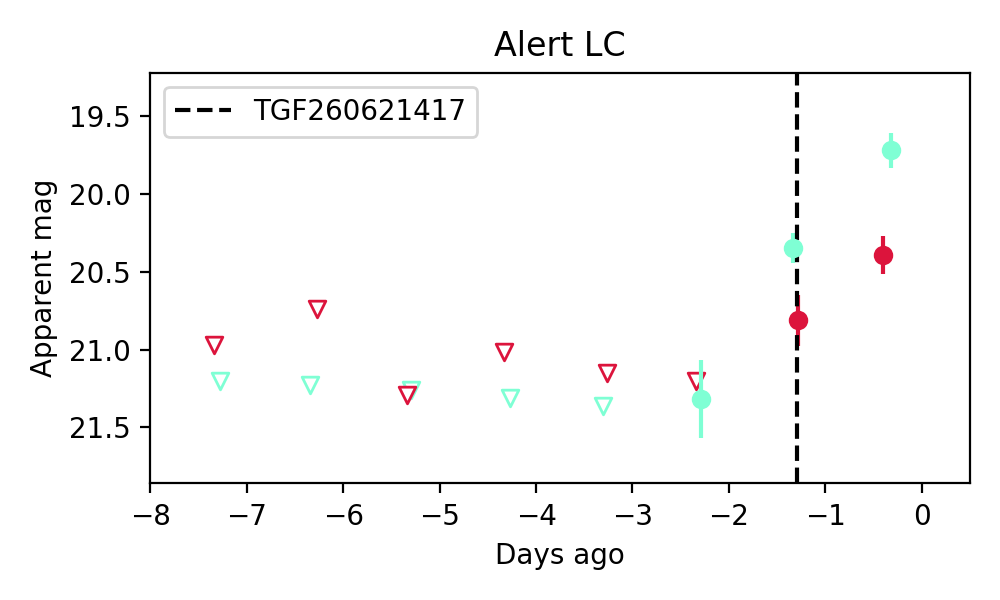
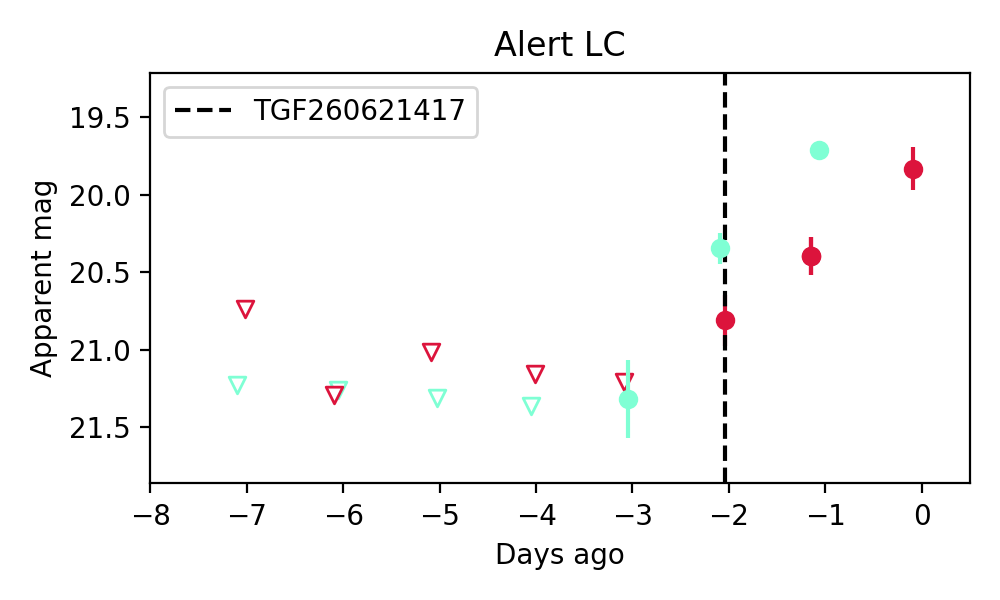
Update HTML from cron job on Tue Jun 23 07:43:20 AM EDT 2026

diff --git a/html/20260623_fastcand.html b/html/20260623_fastcand.html
@@ -1,1 +1,5 @@
-<!doctype html><html><head><title>SOURCE MARSHAL</title><style>                  * {                     box-sizing: border-box;                  }                /* Create two equal columns that floats next to each other */                .column {                         float: left;                         width: 50%;                         padding: 10px;                         #height: 220px; /* Should be removed. Only for demonstration */                }                /* Clear floats after the columns */                .row:after {                        content: "";                        display: table;                        clear: both;                }                /* Rounded corner definition */                #rcorners2 {                    border-radius: 15px;                    border: 2px solid #73AD21;                    padding: 15px;                     width: 80%;                }                table, th, td {                    border: 1px solid black;                    border-collapse: collapse;                }                th, td {                    padding: 5px;                }                th {                    text-align: right;                }                .boxed {                    width: 300px;                    border: 3px outset green;                    text-align: center;                    font-size: 20px;                    margin: 10px;                }                 </style></head><body><font size="5" color="green">Candidate List 20260623</font></br></br><a href=20260622_fastcand.html target="_blank"><font size="3" color="green">Previous Day</font></a>&nbsp;&nbsp;&nbsp;&nbsp;<a href=20260624_fastcand.html target="_blank"><font size="3" color="green">Next Day</font></a>&nbsp;&nbsp;&nbsp;&nbsp;<br><br><font size="4" color="green"><a href="#sec1">Section 1: New Sources (age<1d)</a></font>&nbsp;&nbsp;&nbsp;&nbsp;<button onclick="myfunc1()">Cosmological Afterglow</button><p id="demo1"></p><script>function myfunc1() {document.getElementById("demo1").innerHTML = "Sources detected for the first time last night. Matches with Fermi GRBs are shown in a green box."}</script><font size="4" color="green"><a href="#sec2">Section 2: Old (1-5d) sources observed last night</a></font></br><font size="1" color="white">placeholder</font></br><hr style="width:50%;text-align:left;margin-left:0"><br>
+<!doctype html><html><head><title>SOURCE MARSHAL</title><style>                  * {                     box-sizing: border-box;                  }                /* Create two equal columns that floats next to each other */                .column {                         float: left;                         width: 50%;                         padding: 10px;                         #height: 220px; /* Should be removed. Only for demonstration */                }                /* Clear floats after the columns */                .row:after {                        content: "";                        display: table;                        clear: both;                }                /* Rounded corner definition */                #rcorners2 {                    border-radius: 15px;                    border: 2px solid #73AD21;                    padding: 15px;                     width: 80%;                }                table, th, td {                    border: 1px solid black;                    border-collapse: collapse;                }                th, td {                    padding: 5px;                }                th {                    text-align: right;                }                .boxed {                    width: 300px;                    border: 3px outset green;                    text-align: center;                    font-size: 20px;                    margin: 10px;                }                 </style></head><body><font size="5" color="green">Candidate List 20260623</font></br></br><a href=20260622_fastcand.html target="_blank"><font size="3" color="green">Previous Day</font></a>&nbsp;&nbsp;&nbsp;&nbsp;<a href=20260624_fastcand.html target="_blank"><font size="3" color="green">Next Day</font></a>&nbsp;&nbsp;&nbsp;&nbsp;<br><br><font size="4" color="green"><a href="#sec1">Section 1: New Sources (age<1d)</a></font>&nbsp;&nbsp;&nbsp;&nbsp;<button onclick="myfunc1()">Cosmological Afterglow</button><p id="demo1"></p><script>function myfunc1() {document.getElementById("demo1").innerHTML = "Sources detected for the first time last night. Matches with Fermi GRBs are shown in a green box."}</script><font size="4" color="green"><a href="#sec2">Section 2: Old (1-5d) sources observed last night</a></font></br><font size="1" color="white">placeholder</font></br><hr style="width:50%;text-align:left;margin-left:0"><br><div id="sec1"></div><div class="boxed">Section 1: New Afterglow/FBOT Cands Last Night (0)</div><br><br><br><div id="sec2"></div><div class="boxed">Section 2: Older Sources Observed Last Night (14)</div><div id="ZTF26abcfgmk"></div>0. <a href="#ZTF26abcfgmk"><b><font size="3">ZTF26abcfgmk (FBOT?)</font></b></a>&nbsp;&nbsp;&nbsp;&nbsp;<a href=#top>[Back to Top]</a>&nbsp;&nbsp;&nbsp;&nbsp;<a href=./html/ZTF26abcfgmk_announcement.txt>[Share]</a>&nbsp;&nbsp;&nbsp;&nbsp;<a href=./html/ZTF26abcfgmk_swifttoo.txt>[Trigger Swift]</a></br>&nbsp;&nbsp;&nbsp;&nbsp;[<a href="https://fritz.science/alerts/ztf/ZTF26abcfgmk" target="_blank">Fritz</a>]&nbsp;&nbsp;&nbsp;&nbsp;[<a href="https://lasair.roe.ac.uk/object/ZTF26abcfgmk" target="_blank">Lasair</a>]</br>RA, Dec: 253.33987, 0.44626&nbsp;&nbsp;&nbsp;&nbsp;16h53m21.57s,  0d26m46.55s</br>Galactic (l, b): 18.88365, 26.23503&nbsp;&nbsp;&nbsp;&nbsp;ext(g-r) = 0.186</br></br><img src="./ZTF26abcfgmk_triplet.png" height="200"><a href = http://ps1images.stsci.edu/cgi-bin/ps1cutouts?pos=253.339873[phone redacted]&filter=color&filter=g&filter=r&filter=i&filter=z&filter=y&filetypes=stack&auxiliary=data&size=240&output_size=240&verbose=0&autoscale=99.500000><img src="./ZTF26abcfgmk_ps1.png" height="200"></a><br><br>TESS: Sectors 117<br><br><br><br><br>PS1: 0 sources in 3 arcsec</br><br><b>LegacySurvey: 1 sources in 3 arcsec</b>&nbsp;&nbsp;&nbsp;&nbsp;Closest: d = 3.95 arcsec, 351.1 deg (east of north)</br>&nbsp;&nbsp;&nbsp;&nbsp;photoz=0.17 (68&#37; bounds 0.07, 0.66),                         type=PSF&nbsp;&nbsp;&nbsp;&nbsp;<b>peak abs mag = -22.96 (68&#37; bounds -20.77, -26.42)</b><br><img src="ZTF26abcfgmk_alert_lc.png" height="300"><br>Extinction-corrected gr color:<br>From alerts: 0.89 +/- 99 mag<br>Extinction-corrected gi color:<br>From alerts: -3.64 +/- 99 mag<br>Extinction-corrected ri color:<br>From alerts: -0.82 +/- 99 mag<br><br>Rise Rate:<br>g: 1.3 mag/day <br>r: 1.36 mag/day <br>i: -99 mag/day <br><br>Fade Rate:<br>g: 3.92 mag/day <br>r: -99 mag/day <br>i: -99 mag/day <br><br><br><div id="ZTF26abcfkoh"></div>1. <a href="#ZTF26abcfkoh"><b><font size="3">ZTF26abcfkoh (Afterglow?)</font></b></a>&nbsp;&nbsp;&nbsp;&nbsp;<a href=#top>[Back to Top]</a>&nbsp;&nbsp;&nbsp;&nbsp;<a href=./html/ZTF26abcfkoh_announcement.txt>[Share]</a>&nbsp;&nbsp;&nbsp;&nbsp;<a href=./html/ZTF26abcfkoh_swifttoo.txt>[Trigger Swift]</a></br>&nbsp;&nbsp;&nbsp;&nbsp;[<a href="https://fritz.science/alerts/ztf/ZTF26abcfkoh" target="_blank">Fritz</a>]&nbsp;&nbsp;&nbsp;&nbsp;[<a href="https://lasair.roe.ac.uk/object/ZTF26abcfkoh" target="_blank">Lasair</a>]</br>RA, Dec: 272.55208, -18.37364&nbsp;&nbsp;&nbsp;&nbsp;18h10m12.50s, -18d-22m-25.11s</br>Galactic (l, b): 11.95606, 0.42371&nbsp;&nbsp;&nbsp;&nbsp;ext(g-r) = 8.03</br></br><img src="./ZTF26abcfkoh_triplet.png" height="200"><a href = http://ps1images.stsci.edu/cgi-bin/ps1cutouts?pos=272.552076-18.373642&filter=color&filter=g&filter=r&filter=i&filter=z&filter=y&filetypes=stack&auxiliary=data&size=240&output_size=240&verbose=0&autoscale=99.500000><img src="./ZTF26abcfkoh_ps1.png" height="200"></a><br><br>TESS: Sectors [ 91  92 116]<br><br><br><br><br><b>PS1: 1 source in 3 arcsec</b>&nbsp;&nbsp;&nbsp;&nbsp;Closest: d = 0.17 arcsec&nbsp;&nbsp;&nbsp;&nbsp;photoz=0.72+/-0.05&nbsp;&nbsp;&nbsp;&nbsp;<b>peak abs mag = -37.35</b><br>LegacySurvey: 0 sources in 3 arcsec</br><br><img src="ZTF26abcfkoh_alert_lc.png" height="300"><br>Extinction-corrected gi color:<br>From alerts: -11.41 +/- 99 mag<br>Extinction-corrected ri color:<br>From alerts: -3.06 +/- 99 mag<br><br>Rise Rate:<br>g: -99 mag/day <br>r: -99 mag/day <br>i: 0.51 mag/day <br><br>Fade Rate:<br>g: -99 mag/day <br>r: -99 mag/day <br>i: 0.59 mag/day <br><br><br><div id="ZTF26abcjhzj"></div>2. <a href="#ZTF26abcqesk"><b><font size="3">ZTF26abcqesk (FBOT?)</font></b></a>&nbsp;&nbsp;&nbsp;&nbsp;<a href=#top>[Back to Top]</a>&nbsp;&nbsp;&nbsp;&nbsp;<a href=./html/ZTF26abcqesk_announcement.txt>[Share]</a>&nbsp;&nbsp;&nbsp;&nbsp;<a href=./html/ZTF26abcqesk_swifttoo.txt>[Trigger Swift]</a></br>&nbsp;&nbsp;&nbsp;&nbsp;[<a href="https://fritz.science/alerts/ztf/ZTF26abcqesk" target="_blank">Fritz</a>]&nbsp;&nbsp;&nbsp;&nbsp;[<a href="https://lasair.roe.ac.uk/object/ZTF26abcqesk" target="_blank">Lasair</a>]</br>RA, Dec: 252.31072, 55.09314&nbsp;&nbsp;&nbsp;&nbsp;16h49m14.57s, 55d 5m35.30s</br>Galactic (l, b): 83.40401, 39.25719&nbsp;&nbsp;&nbsp;&nbsp;ext(g-r) = 0.015</br></br><img src="./ZTF26abcqesk_triplet.png" height="200"><a href = http://ps1images.stsci.edu/cgi-bin/ps1cutouts?pos=252.310722[phone redacted]&filter=color&filter=g&filter=r&filter=i&filter=z&filter=y&filetypes=stack&auxiliary=data&size=240&output_size=240&verbose=0&autoscale=99.500000><img src="./ZTF26abcqesk_ps1.png" height="200"></a><a href = http://legacysurvey.org/viewer?ra=252.310722&dec=[phone redacted]&zoom=16&layer=ls-dr10><img src="ZTF26abcqesk_ls.png" height="200"></a></br><br><br>TESS: Sectors [ 16  19  23  24  25  26  49  50  52  53  56  57  59  73  76  77  79  80
+  83  84  86 117 118]<br><br><br><br><br>PS1: 0 sources in 3 arcsec</br><br><b>LegacySurvey: 1 sources in 3 arcsec</b>&nbsp;&nbsp;&nbsp;&nbsp;Closest: d = 0.65 arcsec, 170.1 deg (east of north)</br>&nbsp;&nbsp;&nbsp;&nbsp;photoz=0.37 (68&#37; bounds 0.25, 0.54),                         type=REX&nbsp;&nbsp;&nbsp;&nbsp;<b>peak abs mag = -23.39 (68&#37; bounds -22.37, -24.35)</b><br><img src="ZTF26abcqesk_alert_lc.png" height="300"><br>Extinction-corrected gr color:<br>From alerts: 0.01 +/- 0.07 mag<br><b> Consistent with synchrotron, g-r>0!</b><br>Rise Rate:<br>g: 0.48 mag/day <br>r: 0.47 mag/day <br>i: -99 mag/day <br><br>Fade Rate:<br>g: -99 mag/day <br>r: -99 mag/day <br>i: -99 mag/day <br><br><br><div id="ZTF26abcjpgt"></div>3. <a href="#ZTF26abcqplv"><b><font size="3">ZTF26abcqplv (Afterglow?)</font></b></a>&nbsp;&nbsp;&nbsp;&nbsp;<a href=#top>[Back to Top]</a>&nbsp;&nbsp;&nbsp;&nbsp;<a href=./html/ZTF26abcqplv_announcement.txt>[Share]</a>&nbsp;&nbsp;&nbsp;&nbsp;<a href=./html/ZTF26abcqplv_swifttoo.txt>[Trigger Swift]</a></br>&nbsp;&nbsp;&nbsp;&nbsp;[<a href="https://fritz.science/alerts/ztf/ZTF26abcqplv" target="_blank">Fritz</a>]&nbsp;&nbsp;&nbsp;&nbsp;[<a href="https://lasair.roe.ac.uk/object/ZTF26abcqplv" target="_blank">Lasair</a>]</br>RA, Dec: 239.60315, 27.22953&nbsp;&nbsp;&nbsp;&nbsp;15h58m24.76s, 27d13m46.31s</br>Galactic (l, b): 44.23003, 48.67087&nbsp;&nbsp;&nbsp;&nbsp;ext(g-r) = 0.048</br></br><img src="./ZTF26abcqplv_triplet.png" height="200"><a href = http://ps1images.stsci.edu/cgi-bin/ps1cutouts?pos=239.603149[phone redacted]&filter=color&filter=g&filter=r&filter=i&filter=z&filter=y&filetypes=stack&auxiliary=data&size=240&output_size=240&verbose=0&autoscale=99.500000><img src="./ZTF26abcqplv_ps1.png" height="200"></a><br><br>TESS: Sectors [ 24  25  51  78 117]<br><br>NED (10 arcsec):Found NED spec-z: z=0.09; <b>peak abs mag = -18.99</b><br><br><br>PS1: 0 sources in 3 arcsec</br><br>LegacySurvey: 0 sources in 3 arcsec</br><br><img src="ZTF26abcqplv_alert_lc.png" height="300"><br>Extinction-corrected gr color:<br>From alerts: 0.06 +/- 0.18 mag<br><b> Consistent with synchrotron, g-r>0!</b><br>Rise Rate:<br>g: 0.17 mag/day <br>r: 0.52 mag/day <br>i: -99 mag/day <br><br>Fade Rate:<br>g: -99 mag/day <br>r: -99 mag/day <br>i: -99 mag/day <br><br><br><div id="ZTF26abcmahs"></div>4. <a href="#ZTF26abcuvko"><b><font size="3">ZTF26abcuvko (Afterglow?)</font></b></a>&nbsp;&nbsp;&nbsp;&nbsp;<a href=#top>[Back to Top]</a>&nbsp;&nbsp;&nbsp;&nbsp;<a href=./html/ZTF26abcuvko_announcement.txt>[Share]</a>&nbsp;&nbsp;&nbsp;&nbsp;<a href=./html/ZTF26abcuvko_swifttoo.txt>[Trigger Swift]</a></br>&nbsp;&nbsp;&nbsp;&nbsp;[<a href="https://fritz.science/alerts/ztf/ZTF26abcuvko" target="_blank">Fritz</a>]&nbsp;&nbsp;&nbsp;&nbsp;[<a href="https://lasair.roe.ac.uk/object/ZTF26abcuvko" target="_blank">Lasair</a>]</br>RA, Dec: 230.44214, -12.41028&nbsp;&nbsp;&nbsp;&nbsp;15h21m46.11s, -12d-24m-37.01s</br>Galactic (l, b): 350.51762, 36.21499&nbsp;&nbsp;&nbsp;&nbsp;ext(g-r) = 0.174</br></br><img src="./ZTF26abcuvko_triplet.png" height="200"><a href = http://ps1images.stsci.edu/cgi-bin/ps1cutouts?pos=230.442138-12.410281&filter=color&filter=g&filter=r&filter=i&filter=z&filter=y&filetypes=stack&auxiliary=data&size=240&output_size=240&verbose=0&autoscale=99.500000><img src="./ZTF26abcuvko_ps1.png" height="200"></a><br><br>TESS: Sectors [ 91 115]<br><br><br><br><br>PS1: 0 sources in 3 arcsec</br><br>LegacySurvey: 0 sources in 3 arcsec</br><br><img src="ZTF26abcuvko_alert_lc.png" height="300"><br>Extinction-corrected gr color:<br>From alerts: 2.65 +/- 99 mag<br>Extinction-corrected ri color:<br>From alerts: -2.4 +/- 99 mag<br><br>Rise Rate:<br>g: -99 mag/day <br>r: 2.83 mag/day <br>i: -99 mag/day <br><br>Fade Rate:<br>g: -99 mag/day <br>r: 2.67 mag/day <br>i: -99 mag/day <br><br><br><div id="ZTF26abcntyi"></div>5. <a href="#ZTF26abdbeqv"><b><font size="3">ZTF26abdbeqv (FBOT?)</font></b></a>&nbsp;&nbsp;&nbsp;&nbsp;<a href=#top>[Back to Top]</a>&nbsp;&nbsp;&nbsp;&nbsp;<a href=./html/ZTF26abdbeqv_announcement.txt>[Share]</a>&nbsp;&nbsp;&nbsp;&nbsp;<a href=./html/ZTF26abdbeqv_swifttoo.txt>[Trigger Swift]</a></br>&nbsp;&nbsp;&nbsp;&nbsp;[<a href="https://fritz.science/alerts/ztf/ZTF26abdbeqv" target="_blank">Fritz</a>]&nbsp;&nbsp;&nbsp;&nbsp;[<a href="https://lasair.roe.ac.uk/object/ZTF26abdbeqv" target="_blank">Lasair</a>]</br>RA, Dec: 281.32661, 49.88352&nbsp;&nbsp;&nbsp;&nbsp;18h45m18.39s, 49d53m0.66s</br>Galactic (l, b): 79.17755, 21.34898&nbsp;&nbsp;&nbsp;&nbsp;ext(g-r) = 0.051</br></br><img src="./ZTF26abdbeqv_triplet.png" height="200"><a href = http://ps1images.stsci.edu/cgi-bin/ps1cutouts?pos=281.326610[phone redacted]&filter=color&filter=g&filter=r&filter=i&filter=z&filter=y&filetypes=stack&auxiliary=data&size=240&output_size=240&verbose=0&autoscale=99.500000><img src="./ZTF26abdbeqv_ps1.png" height="200"></a><a href = http://legacysurvey.org/viewer?ra=281.326610&dec=[phone redacted]&zoom=16&layer=ls-dr10><img src="ZTF26abdbeqv_ls.png" height="200"></a></br><br><br>TESS: Sectors [ 15  26  40  41  53  54  55  74  75  79  80  81  82  86 118 119 120]<br><br><br><br><br>PS1: 0 sources in 3 arcsec</br><br><b>LegacySurvey: 1 sources in 3 arcsec</b>&nbsp;&nbsp;&nbsp;&nbsp;Closest: d = 0.77 arcsec, 178.7 deg (east of north)</br>&nbsp;&nbsp;&nbsp;&nbsp;photoz=0.71 (68&#37; bounds 0.25, 1.04),                         type=REX&nbsp;&nbsp;&nbsp;&nbsp;<b>peak abs mag = -23.53 (68&#37; bounds -20.81, -24.55)</b><br><img src="ZTF26abdbeqv_alert_lc.png" height="300"><br>Extinction-corrected gr color:<br>From alerts: -0.73 +/- 0.1 mag<br><br>Rise Rate:<br>g: 0.7 mag/day <br>r: 0.51 mag/day <br>i: -99 mag/day <br><br>Fade Rate:<br>g: -99 mag/day <br>r: -99 mag/day <br>i: -99 mag/day <br><br><br><div id="ZTF26abcqcat"></div>6. <a href="#ZTF26abdgdtq"><b><font size="3">ZTF26abdgdtq (Afterglow?FBOT?)</font></b></a>&nbsp;&nbsp;&nbsp;&nbsp;<a href=#top>[Back to Top]</a>&nbsp;&nbsp;&nbsp;&nbsp;<a href=./html/ZTF26abdgdtq_announcement.txt>[Share]</a>&nbsp;&nbsp;&nbsp;&nbsp;<a href=./html/ZTF26abdgdtq_swifttoo.txt>[Trigger Swift]</a></br>&nbsp;&nbsp;&nbsp;&nbsp;[<a href="https://fritz.science/alerts/ztf/ZTF26abdgdtq" target="_blank">Fritz</a>]&nbsp;&nbsp;&nbsp;&nbsp;[<a href="https://lasair.roe.ac.uk/object/ZTF26abdgdtq" target="_blank">Lasair</a>]</br>RA, Dec: 269.13505, 41.68856&nbsp;&nbsp;&nbsp;&nbsp;17h56m32.41s, 41d41m18.83s</br>Galactic (l, b): 68.09912, 27.44831&nbsp;&nbsp;&nbsp;&nbsp;ext(g-r) = 0.035</br></br><img src="./ZTF26abdgdtq_triplet.png" height="200"><a href = http://ps1images.stsci.edu/cgi-bin/ps1cutouts?pos=269.135054[phone redacted]&filter=color&filter=g&filter=r&filter=i&filter=z&filter=y&filetypes=stack&auxiliary=data&size=240&output_size=240&verbose=0&autoscale=99.500000><img src="./ZTF26abdgdtq_ps1.png" height="200"></a><a href = http://legacysurvey.org/viewer?ra=269.135054&dec=[phone redacted]&zoom=16&layer=ls-dr10><img src="ZTF26abdgdtq_ls.png" height="200"></a></br><br><br>TESS: Sectors [ 25  26  40  52  53  74  79  80 117 119]<br><br><br><br><br>PS1: 0 sources in 3 arcsec</br><br><b>LegacySurvey: 1 sources in 3 arcsec</b>&nbsp;&nbsp;&nbsp;&nbsp;Closest: d = 2.13 arcsec, 146.6 deg (east of north)</br>&nbsp;&nbsp;&nbsp;&nbsp;photoz=0.55 (68&#37; bounds 0.38, 0.81),                         type=PSF&nbsp;&nbsp;&nbsp;&nbsp;<b>peak abs mag = -22.87 (68&#37; bounds -21.92, -23.87)</b><br><img src="ZTF26abdgdtq_alert_lc.png" height="300"><br>Extinction-corrected gr color:<br>From alerts: 0.38 +/- 0.14 mag<br><b> Consistent with synchrotron, g-r>0!</b><br>Rise Rate:<br>g: 0.77 mag/day <br>r: 0.53 mag/day <br>i: -99 mag/day <br><br>Fade Rate:<br>g: -99 mag/day <br>r: -99 mag/day <br>i: -99 mag/day <br><br><br><div id="ZTF26abcqesk"></div>7. <a href="#ZTF26abdlyse"><b><font size="3">ZTF26abdlyse (FBOT?)</font></b></a>&nbsp;&nbsp;&nbsp;&nbsp;<a href=#top>[Back to Top]</a>&nbsp;&nbsp;&nbsp;&nbsp;<a href=./html/ZTF26abdlyse_announcement.txt>[Share]</a>&nbsp;&nbsp;&nbsp;&nbsp;<a href=./html/ZTF26abdlyse_swifttoo.txt>[Trigger Swift]</a></br>&nbsp;&nbsp;&nbsp;&nbsp;[<a href="https://fritz.science/alerts/ztf/ZTF26abdlyse" target="_blank">Fritz</a>]&nbsp;&nbsp;&nbsp;&nbsp;[<a href="https://lasair.roe.ac.uk/object/ZTF26abdlyse" target="_blank">Lasair</a>]</br>RA, Dec: 227.0697, 3.66183&nbsp;&nbsp;&nbsp;&nbsp;15h 8m16.73s,  3d39m42.58s</br>Galactic (l, b): 3.27491, 49.78459&nbsp;&nbsp;&nbsp;&nbsp;ext(g-r) = 0.043</br></br><img src="./ZTF26abdlyse_triplet.png" height="200"><a href = http://ps1images.stsci.edu/cgi-bin/ps1cutouts?pos=227.069704[phone redacted]&filter=color&filter=g&filter=r&filter=i&filter=z&filter=y&filetypes=stack&auxiliary=data&size=240&output_size=240&verbose=0&autoscale=99.500000><img src="./ZTF26abdlyse_ps1.png" height="200"></a><br><br>TESS: Sectors 51<br>SDSS (<15 kpc):Found SDSS phot-z: z=0.14; <b>peak abs mag = -19.98</b><br><br><br><br>PS1: 0 sources in 3 arcsec</br><br><b>LegacySurvey: 1 sources in 3 arcsec</b>&nbsp;&nbsp;&nbsp;&nbsp;Closest: d = 5.11 arcsec, 230.0 deg (east of north)</br>&nbsp;&nbsp;&nbsp;&nbsp;photoz=0.29 (68&#37; bounds 0.19, 0.59),                         type=DEV&nbsp;&nbsp;&nbsp;&nbsp;<b>peak abs mag = -21.77 (68&#37; bounds -20.66, -23.57)</b><br><img src="ZTF26abdlyse_alert_lc.png" height="300"><br>Extinction-corrected gi color:<br>From alerts: -0.25 +/- 99 mag<br>Extinction-corrected ri color:<br>From alerts: 1.36 +/- 99 mag<br><br>Rise Rate:<br>g: -99 mag/day <br>r: -99 mag/day <br>i: 0.62 mag/day <br><br>Fade Rate:<br>g: -99 mag/day <br>r: -99 mag/day <br>i: -99 mag/day <br><br><br><div id="ZTF26abcqplv"></div>8. <a href="#ZTF26abdoamh"><b><font size="3">ZTF26abdoamh (FBOT?)</font></b></a>&nbsp;&nbsp;&nbsp;&nbsp;<a href=#top>[Back to Top]</a>&nbsp;&nbsp;&nbsp;&nbsp;<a href=./html/ZTF26abdoamh_announcement.txt>[Share]</a>&nbsp;&nbsp;&nbsp;&nbsp;<a href=./html/ZTF26abdoamh_swifttoo.txt>[Trigger Swift]</a></br>&nbsp;&nbsp;&nbsp;&nbsp;[<a href="https://fritz.science/alerts/ztf/ZTF26abdoamh" target="_blank">Fritz</a>]&nbsp;&nbsp;&nbsp;&nbsp;[<a href="https://lasair.roe.ac.uk/object/ZTF26abdoamh" target="_blank">Lasair</a>]</br>RA, Dec: 264.61663, 46.11277&nbsp;&nbsp;&nbsp;&nbsp;17h38m27.99s, 46d 6m45.98s</br>Galactic (l, b): 72.41755, 31.45116&nbsp;&nbsp;&nbsp;&nbsp;ext(g-r) = 0.024</br></br><img src="./ZTF26abdoamh_triplet.png" height="200"><a href = http://ps1images.stsci.edu/cgi-bin/ps1cutouts?pos=264.616631[phone redacted]&filter=color&filter=g&filter=r&filter=i&filter=z&filter=y&filetypes=stack&auxiliary=data&size=240&output_size=240&verbose=0&autoscale=99.500000><img src="./ZTF26abdoamh_ps1.png" height="200"></a><br><br>TESS: Sectors [ 25  26  40  51  52  53  78  79  80 117 118 119]<br><br><br><br><br>PS1: 0 sources in 3 arcsec</br><br><b>LegacySurvey: 1 sources in 3 arcsec</b>&nbsp;&nbsp;&nbsp;&nbsp;Closest: d = 1.17 arcsec, 27.2 deg (east of north)</br>&nbsp;&nbsp;&nbsp;&nbsp;photoz=0.65 (68&#37; bounds 0.52, 0.83),                         type=REX&nbsp;&nbsp;&nbsp;&nbsp;<b>peak abs mag = -23.07 (68&#37; bounds -22.52, -23.73)</b><br><img src="ZTF26abdoamh_alert_lc.png" height="300"><br>Extinction-corrected gr color:<br>From alerts: 1.11 +/- 99 mag<br><br>Rise Rate:<br>g: -99 mag/day <br>r: 1.37 mag/day <br>i: -99 mag/day <br><br>Fade Rate:<br>g: -99 mag/day <br>r: -99 mag/day <br>i: -99 mag/day <br><br><br><div id="ZTF26abcsgfe"></div>9. <a href="#ZTF26abdodpu"><b><font size="3">ZTF26abdodpu (FBOT?)</font></b></a>&nbsp;&nbsp;&nbsp;&nbsp;<a href=#top>[Back to Top]</a>&nbsp;&nbsp;&nbsp;&nbsp;<a href=./html/ZTF26abdodpu_announcement.txt>[Share]</a>&nbsp;&nbsp;&nbsp;&nbsp;<a href=./html/ZTF26abdodpu_swifttoo.txt>[Trigger Swift]</a></br>&nbsp;&nbsp;&nbsp;&nbsp;[<a href="https://fritz.science/alerts/ztf/ZTF26abdodpu" target="_blank">Fritz</a>]&nbsp;&nbsp;&nbsp;&nbsp;[<a href="https://lasair.roe.ac.uk/object/ZTF26abdodpu" target="_blank">Lasair</a>]</br>RA, Dec: 279.53908, 40.29512&nbsp;&nbsp;&nbsp;&nbsp;18h38m9.38s, 40d17m42.42s</br>Galactic (l, b): 69.04075, 19.52467&nbsp;&nbsp;&nbsp;&nbsp;ext(g-r) = 0.081</br></br><img src="./ZTF26abdodpu_triplet.png" height="200"><a href = http://ps1images.stsci.edu/cgi-bin/ps1cutouts?pos=279.539076[phone redacted]&filter=color&filter=g&filter=r&filter=i&filter=z&filter=y&filetypes=stack&auxiliary=data&size=240&output_size=240&verbose=0&autoscale=99.500000><img src="./ZTF26abdodpu_ps1.png" height="200"></a><br><br>TESS: Sectors [ 14  26  53  54  74  80  81 118 119]<br><br><br><br><br>PS1: 0 sources in 3 arcsec</br><br><b>LegacySurvey: 1 sources in 3 arcsec</b>&nbsp;&nbsp;&nbsp;&nbsp;Closest: d = 1.43 arcsec, 222.1 deg (east of north)</br>&nbsp;&nbsp;&nbsp;&nbsp;photoz=0.56 (68&#37; bounds 0.46, 0.69),                         type=PSF&nbsp;&nbsp;&nbsp;&nbsp;<b>peak abs mag = -22.65 (68&#37; bounds -22.16, -23.21)</b><br><img src="ZTF26abdodpu_alert_lc.png" height="300"><br>Extinction-corrected gr color:<br>From alerts: -0.42 +/- 99 mag<br><br>Rise Rate:<br>g: -99 mag/day <br>r: 1.29 mag/day <br>i: -99 mag/day <br><br>Fade Rate:<br>g: -99 mag/day <br>r: -99 mag/day <br>i: -99 mag/day <br><br><br><div id="ZTF26abcsgtx"></div>10. <a href="#ZTF26abdodwg"><b><font size="3">ZTF26abdodwg (FBOT?)</font></b></a>&nbsp;&nbsp;&nbsp;&nbsp;<a href=#top>[Back to Top]</a>&nbsp;&nbsp;&nbsp;&nbsp;<a href=./html/ZTF26abdodwg_announcement.txt>[Share]</a>&nbsp;&nbsp;&nbsp;&nbsp;<a href=./html/ZTF26abdodwg_swifttoo.txt>[Trigger Swift]</a></br>&nbsp;&nbsp;&nbsp;&nbsp;[<a href="https://fritz.science/alerts/ztf/ZTF26abdodwg" target="_blank">Fritz</a>]&nbsp;&nbsp;&nbsp;&nbsp;[<a href="https://lasair.roe.ac.uk/object/ZTF26abdodwg" target="_blank">Lasair</a>]</br>RA, Dec: 269.86009, 51.59169&nbsp;&nbsp;&nbsp;&nbsp;17h59m26.42s, 51d35m30.09s</br>Galactic (l, b): 79.24201, 28.79542&nbsp;&nbsp;&nbsp;&nbsp;ext(g-r) = 0.052</br></br><img src="./ZTF26abdodwg_triplet.png" height="200"><a href = http://ps1images.stsci.edu/cgi-bin/ps1cutouts?pos=269.860089[phone redacted]&filter=color&filter=g&filter=r&filter=i&filter=z&filter=y&filetypes=stack&auxiliary=data&size=240&output_size=240&verbose=0&autoscale=99.500000><img src="./ZTF26abdodwg_ps1.png" height="200"></a><br><br>TESS: Sectors [ 14  18  21  24  25  40  41  51  52  53  54  58  74  78  79  80  81  85
+ 117 119 120]<br><br><br><br><br>PS1: 0 sources in 3 arcsec</br><br><b>LegacySurvey: 1 sources in 3 arcsec</b>&nbsp;&nbsp;&nbsp;&nbsp;Closest: d = 1.41 arcsec, 113.2 deg (east of north)</br>&nbsp;&nbsp;&nbsp;&nbsp;photoz=0.56 (68&#37; bounds 0.39, 0.82),                         type=PSF&nbsp;&nbsp;&nbsp;&nbsp;<b>peak abs mag = -23.11 (68&#37; bounds -22.16, -24.12)</b><br><img src="ZTF26abdodwg_alert_lc.png" height="300"><br>Extinction-corrected gr color:<br>From alerts: 1.45 +/- 99 mag<br><br>Rise Rate:<br>g: -99 mag/day <br>r: 1.67 mag/day <br>i: -99 mag/day <br><br>Fade Rate:<br>g: -99 mag/day <br>r: -99 mag/day <br>i: -99 mag/day <br><br><br><div id="ZTF26abcsioq"></div>11. <a href="#ZTF26abdohuy"><b><font size="3">ZTF26abdohuy (FBOT?)</font></b></a>&nbsp;&nbsp;&nbsp;&nbsp;<a href=#top>[Back to Top]</a>&nbsp;&nbsp;&nbsp;&nbsp;<a href=./html/ZTF26abdohuy_announcement.txt>[Share]</a>&nbsp;&nbsp;&nbsp;&nbsp;<a href=./html/ZTF26abdohuy_swifttoo.txt>[Trigger Swift]</a></br>&nbsp;&nbsp;&nbsp;&nbsp;[<a href="https://fritz.science/alerts/ztf/ZTF26abdohuy" target="_blank">Fritz</a>]&nbsp;&nbsp;&nbsp;&nbsp;[<a href="https://lasair.roe.ac.uk/object/ZTF26abdohuy" target="_blank">Lasair</a>]</br>RA, Dec: 294.40909, 66.19563&nbsp;&nbsp;&nbsp;&nbsp;19h37m38.18s, 66d11m44.27s</br>Galactic (l, b): 98.01177, 20.19843&nbsp;&nbsp;&nbsp;&nbsp;ext(g-r) = 0.118</br></br><img src="./ZTF26abdohuy_triplet.png" height="200"><a href = http://ps1images.stsci.edu/cgi-bin/ps1cutouts?pos=294.409095[phone redacted]&filter=color&filter=g&filter=r&filter=i&filter=z&filter=y&filetypes=stack&auxiliary=data&size=240&output_size=240&verbose=0&autoscale=99.500000><img src="./ZTF26abdohuy_ps1.png" height="200"></a><br><br>TESS: Sectors [ 14  15  16  17  18  19  20  21  22  23  24  25  26  40  41  47  48  49
+  50  51  52  53  54  55  56  57  58  59  60  73  74  75  76  77  78  79
+  80  81  82  83  84  85  86 117 118 119 120 121]<br><br><br><br><br>PS1: 0 sources in 3 arcsec</br><br><b>LegacySurvey: 1 sources in 3 arcsec</b>&nbsp;&nbsp;&nbsp;&nbsp;Closest: d = 1.50 arcsec, 242.2 deg (east of north)</br>&nbsp;&nbsp;&nbsp;&nbsp;photoz=0.46 (68&#37; bounds 0.35, 0.59),                         type=REX&nbsp;&nbsp;&nbsp;&nbsp;<b>peak abs mag = -21.5 (68&#37; bounds -20.78, -22.13)</b><br><img src="ZTF26abdohuy_alert_lc.png" height="300"><br>Extinction-corrected gr color:<br>From alerts: -0.59 +/- 0.38 mag<br><br>Rise Rate:<br>g: -99 mag/day <br>r: 0.42 mag/day <br>i: -99 mag/day <br><br>Fade Rate:<br>g: -99 mag/day <br>r: -99 mag/day <br>i: -99 mag/day <br><br><br><div id="ZTF26abcujyq"></div>12. <a href="#ZTF26abdonzv"><b><font size="3">ZTF26abdonzv (Afterglow?)</font></b></a>&nbsp;&nbsp;&nbsp;&nbsp;<a href=#top>[Back to Top]</a>&nbsp;&nbsp;&nbsp;&nbsp;<a href=./html/ZTF26abdonzv_announcement.txt>[Share]</a>&nbsp;&nbsp;&nbsp;&nbsp;<a href=./html/ZTF26abdonzv_swifttoo.txt>[Trigger Swift]</a></br>&nbsp;&nbsp;&nbsp;&nbsp;[<a href="https://fritz.science/alerts/ztf/ZTF26abdonzv" target="_blank">Fritz</a>]&nbsp;&nbsp;&nbsp;&nbsp;[<a href="https://lasair.roe.ac.uk/object/ZTF26abdonzv" target="_blank">Lasair</a>]</br>RA, Dec: 295.8825, 2.85184&nbsp;&nbsp;&nbsp;&nbsp;19h43m31.80s,  2d51m6.64s</br>Galactic (l, b): 41.51707, -10.23099&nbsp;&nbsp;&nbsp;&nbsp;ext(g-r) = 0.335</br></br><img src="./ZTF26abdonzv_triplet.png" height="200"><a href = http://ps1images.stsci.edu/cgi-bin/ps1cutouts?pos=295.882504[phone redacted]&filter=color&filter=g&filter=r&filter=i&filter=z&filter=y&filetypes=stack&auxiliary=data&size=240&output_size=240&verbose=0&autoscale=99.500000><img src="./ZTF26abdonzv_ps1.png" height="200"></a><br><br>TESS: Sectors [54 81]<br><br><br><br><br>PS1: 0 sources in 3 arcsec</br><br>LegacySurvey: 0 sources in 3 arcsec</br><br><img src="ZTF26abdonzv_alert_lc.png" height="300"><br>Extinction-corrected gr color:<br>From alerts: 0.24 +/- 99 mag<br>Extinction-corrected ri color:<br>From alerts: -0.69 +/- 99 mag<br><br>Rise Rate:<br>g: -99 mag/day <br>r: 0.38 mag/day <br>i: 0.95 mag/day <br><br>Fade Rate:<br>g: -99 mag/day <br>r: 1.32 mag/day <br>i: -99 mag/day <br><br><br><div id="ZTF26abcuvko"></div>13. <a href="#ZTF26abdoqwm"><b><font size="3">ZTF26abdoqwm (FBOT?)</font></b></a>&nbsp;&nbsp;&nbsp;&nbsp;<a href=#top>[Back to Top]</a>&nbsp;&nbsp;&nbsp;&nbsp;<a href=./html/ZTF26abdoqwm_announcement.txt>[Share]</a>&nbsp;&nbsp;&nbsp;&nbsp;<a href=./html/ZTF26abdoqwm_swifttoo.txt>[Trigger Swift]</a></br>&nbsp;&nbsp;&nbsp;&nbsp;[<a href="https://fritz.science/alerts/ztf/ZTF26abdoqwm" target="_blank">Fritz</a>]&nbsp;&nbsp;&nbsp;&nbsp;[<a href="https://lasair.roe.ac.uk/object/ZTF26abdoqwm" target="_blank">Lasair</a>]</br>RA, Dec: 307.1306, 1.04305&nbsp;&nbsp;&nbsp;&nbsp;20h28m31.34s,  1d 2m34.97s</br>Galactic (l, b): 45.52408, -20.94507&nbsp;&nbsp;&nbsp;&nbsp;ext(g-r) = 0.123</br></br><img src="./ZTF26abdoqwm_triplet.png" height="200"><a href = http://ps1images.stsci.edu/cgi-bin/ps1cutouts?pos=307.130597[phone redacted]&filter=color&filter=g&filter=r&filter=i&filter=z&filter=y&filetypes=stack&auxiliary=data&size=240&output_size=240&verbose=0&autoscale=99.500000><img src="./ZTF26abdoqwm_ps1.png" height="200"></a><br><br>TESS: Sectors 54<br><br><br><br><br>PS1: 0 sources in 3 arcsec</br><br><b>LegacySurvey: 1 sources in 3 arcsec</b>&nbsp;&nbsp;&nbsp;&nbsp;Closest: d = 1.82 arcsec, 87.1 deg (east of north)</br>&nbsp;&nbsp;&nbsp;&nbsp;photoz=0.77 (68&#37; bounds 0.07, 2.73),                         type=PSF&nbsp;&nbsp;&nbsp;&nbsp;<b>peak abs mag = -24.59 (68&#37; bounds -18.61, -27.94)</b><br><img src="ZTF26abdoqwm_alert_lc.png" height="300"><br>Extinction-corrected gr color:<br>From alerts: 0.38 +/- 99 mag<br>Extinction-corrected gi color:<br>From alerts: 0.33 +/- 99 mag<br><br>Rise Rate:<br>g: -99 mag/day <br>r: -99 mag/day <br>i: 1.47 mag/day <br><br>Fade Rate:<br>g: 0.25 mag/day <br>r: -99 mag/day <br>i: -99 mag/day <br><br><br><br>